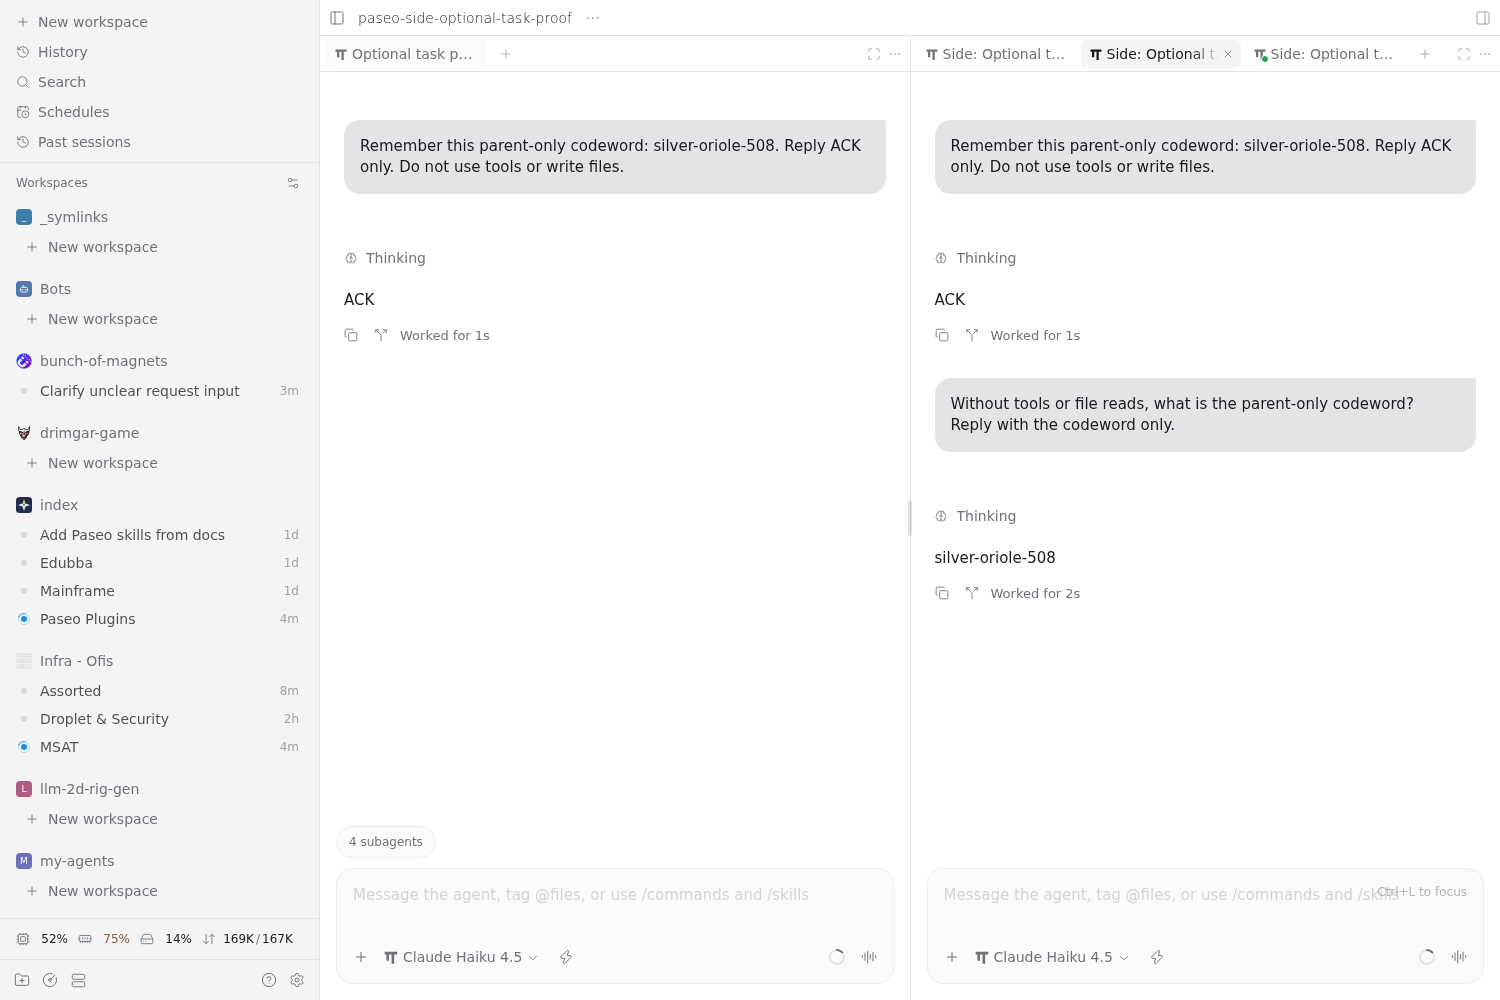
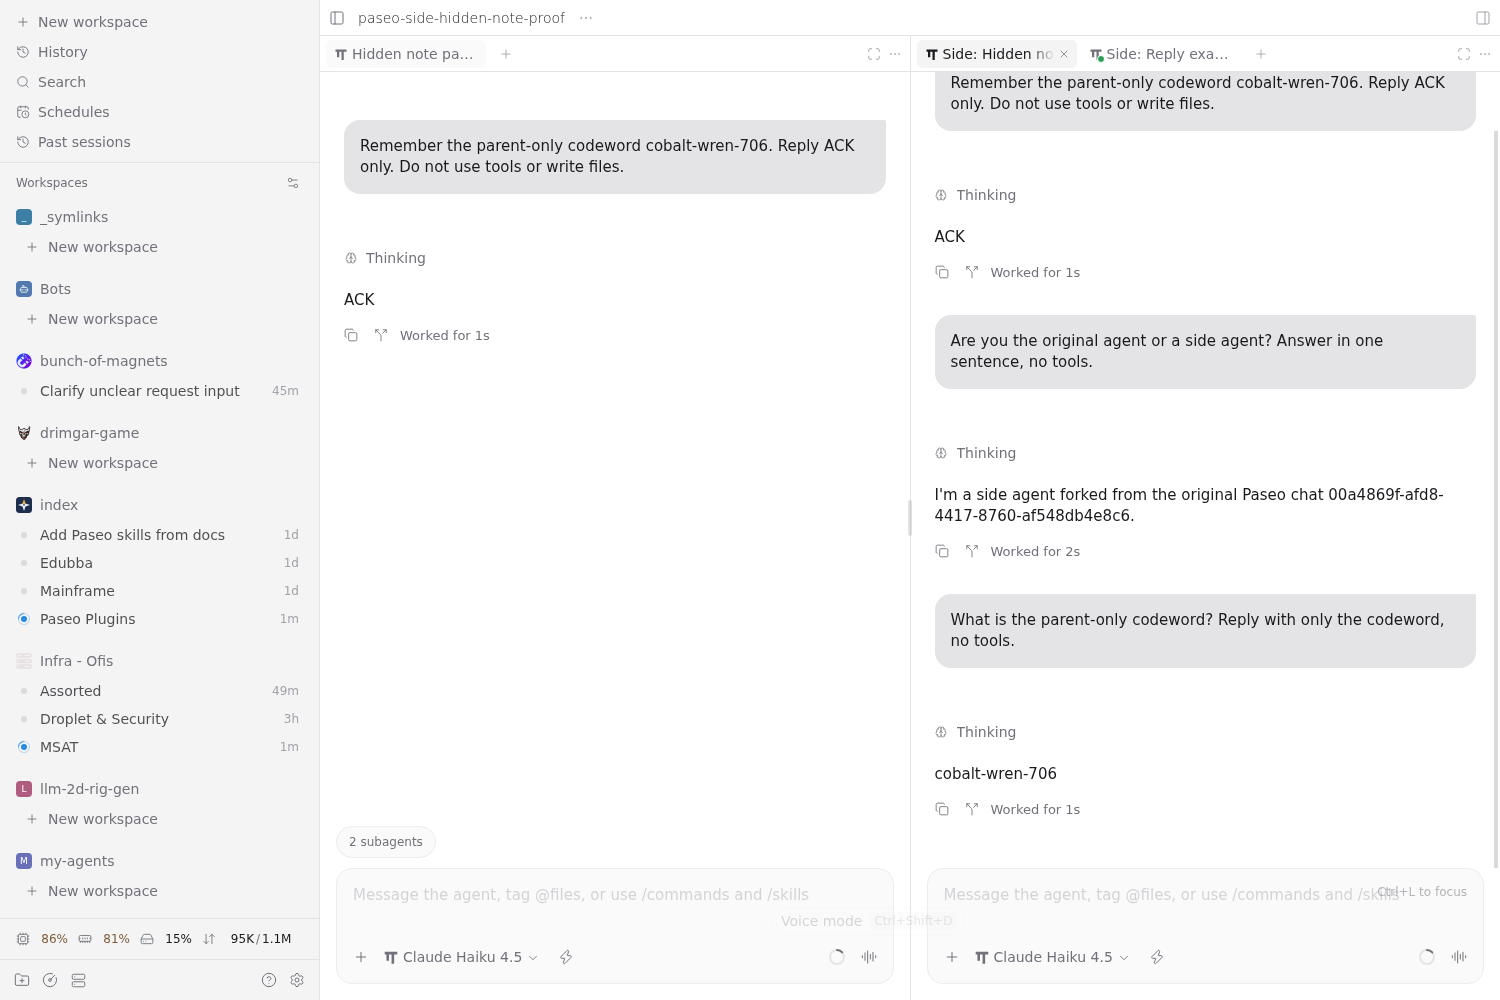
paseo-plugins: side-agent hidden fork note in --full; flags in autocomplete

diff --git a/paseo-plugins/side-agent/server/full-memory.ts b/paseo-plugins/side-agent/server/full-memory.ts
@@ -11,7 +11,7 @@ const entrySchema = z.object({
   }).passthrough().optional(),
 }).passthrough();
 
-export async function copyCompletedSession(source: string): Promise<string> {
+export async function copyCompletedSession(source: string, contextNote: string): Promise<string> {
   if (!source.startsWith("/") || !source.endsWith(".jsonl")) throw new Error("Parent OMP session path is unavailable.");
   const handle = await open(source, "r");
   let bytes: Buffer;
@@ -48,6 +48,16 @@ export async function copyCompletedSession(source: string): Promise<string> {
     ...header, id, timestamp, parentSession: header.id,
     providerPromptCacheKey: header.providerPromptCacheKey ?? header.id,
   };
+  const parentEntryId = entries.at(-1)?.id;
+  if (!parentEntryId) throw new Error("Completed OMP turn has no entry ID.");
+  let noteId: string;
+  do { noteId = randomUUID().slice(0, 8); } while (entries.some(entry => entry.id === noteId));
+  // OMP replays custom_message entries into model context. display:false hides
+  // this in both OMP and Paseo; appending it does not invoke a model turn.
+  entries.push({
+    type: "custom_message", id: noteId, parentId: parentEntryId, timestamp,
+    customType: "side-agent-context", content: contextNote, display: false, attribution: "agent",
+  });
   const destination = join(dirname(source), `${timestamp.replace(/[:.]/g, "-")}_${id}.jsonl`);
   await writeFile(destination, entries.map(entry => JSON.stringify(entry)).join("\n") + "\n", { flag: "wx", mode: 0o600 });
   try {

diff --git a/paseo-plugins/side-agent/index.server.ts b/paseo-plugins/side-agent/index.server.ts
@@ -44,7 +44,8 @@ export default function contribute(server: PluginServerContext) {
       }
       if (parent.provider !== "omp") throw new Error("Full memory is OMP-only; use /side --fork for this provider.");
       if (!parent.persistence?.nativeHandle) throw new Error("Parent OMP session file is unavailable.");
-      sessionCopy = await copyCompletedSession(parent.persistence.nativeHandle);
+      const contextNote = `You are a side agent forked from Paseo chat ${parent.id} (${parent.title?.trim() || "Untitled chat"}). The conversation above belongs to the parent; earlier tasks are not yours. Work only on what the user asks next.`;
+      sessionCopy = await copyCompletedSession(parent.persistence.nativeHandle, contextNote);
       const child = await daemon.importAgent({
         providerId: "omp", providerHandleId: sessionCopy, cwd: parent.cwd,
         ...(parent.workspaceId ? { workspaceId: parent.workspaceId } : {}),
@@ -56,7 +57,7 @@ export default function contribute(server: PluginServerContext) {
         modelId: parent.model, thinkingOptionId: parent.thinkingOptionId ?? null,
         ...(parent.currentModeId ? { modeId: parent.currentModeId } : {}), featureValues,
       });
-      if (task) await daemon.sendAgentMessage(child.id, prompt);
+      if (task) await daemon.sendAgentMessage(child.id, task);
       return { agentId: child.id, mode };
     } catch (error) {
       // A failed full-mode launch must not leave an active half-configured child.

diff --git a/paseo-plugins/side-agent/index.client.tsx b/paseo-plugins/side-agent/index.client.tsx
@@ -19,7 +19,7 @@ export default function contribute(client: PluginClientContext) {
   const settings = client.addSettingsScreen({ id: "context", title: "Side agent", icon: "SlidersHorizontal", Component: ContextSettings });
   const command = {
     name: "/side",
-    description: "Spin off a visible side agent with parent context",
+    description: "Side agent with parent context · --fork / --full",
     argumentHint: "[--fork|--full] [task]",
     context: "agent" as const,
     async onSubmit({ args, agent, rpc, openScreen }: PluginAgentCommandContext & { args: string }) {

diff --git a/paseo-plugins/side-agent/OVERVIEW.md b/paseo-plugins/side-agent/OVERVIEW.md
@@ -54,12 +54,27 @@ convention. The sibling artifact directory is copied recursively, so relative
 artifacts are refused. Absolute paths embedded in historical text are not
 rewritten; existing OMP compaction is not undone.
 
+After the completed-turn cut, the copy gets one OMP `custom_message` entry with
+`customType: "side-agent-context"`, `display: false`, and `attribution: "agent"`.
+Its fresh entry ID links through `parentId` to the copied completed assistant
+entry. Its content is:
+
+> You are a side agent forked from Paseo chat <id> (<parent title>). The conversation above belongs to the parent; earlier tasks are not yours. Work only on what the user asks next.
+
+OMP replays this entry into model context on resume without starting a turn.
+The installed Paseo OMP provider also honors `display: false`: the note produces
+**no visible timeline row or bubble**, including no expandable “Custom message”
+row. It remains visible in the raw session file. This behavior was proven against
+the authoritative `~/.local/bin/omp` binary (18.11.0), not inferred solely from
+the npm source.
+
 Paseo imports the copied file as a new OMP agent with the
 `paseo.parent-agent-id` label and applies the parent's current runtime settings.
-With a task, it sends the existing side-task note plus task. **Without a task it
-sends nothing at all**: the imported child opens idle with no new conversation
-turn, ready for you to type first. The parent is never resumed or written by this
-operation. Full mode inherits native conversation/tool-output memory,
+With a task, it sends **only the task text**, without a duplicated fork note.
+**Without a task it sends nothing at all**: the imported child opens idle with
+no new user/assistant message or model turn, but with the hidden side-context
+entry ready for the first prompt. The parent is never resumed or written by
+this operation. Full mode inherits native conversation/tool-output memory,
 not just a transcript attachment; long histories can be slower and more costly.
 Earlier parent instructions are also inherited and can affect the child's reply.
 
@@ -102,6 +117,8 @@ The plugin first attempts `name: "/side"`, which would match `//side`. Current
 Paseo rejects it because contribution names must match `/^[a-z][a-z0-9-]*$/`.
 Only that specific registration error enables the fallback `name: "side"`.
 Thus `/side` is the working command; `//side` is not intercepted or rewritten.
+The autocomplete description is “Side agent with parent context · --fork / --full”,
+so both flags are visible in the list row as well as the argument hint.
 The separate `omp-slash-aliases` plugin is untouched; `/tan`, `/omfg`, and `/queue`
 remain independent. There are no global composer hooks.
 
@@ -150,18 +167,28 @@ Screenshots in `screenshots/` replace the old file-pointer-mode evidence:
   Ready, using the attached chat history.
 - `no-task-fork-followup.png`: that child then recalls a parent-only codeword
   without tools.
-- `no-task-full-idle.png`: `/side --full` opens an idle imported child without
-  adding a user message or starting a new turn.
-- `no-task-full-followup.png`: the idle child's first follow-up recalls the
-  parent-only codeword without tools.
+- `no-task-full-idle.png`: refreshed hidden-note proof; `/side --full` opens idle
+  with no new user/assistant message, no model turn, and no visible note.
+- `no-task-full-identity.png`: the first prompt identifies the child as a side
+  agent forked from its parent, without tools.
+- `no-task-full-followup.png`: the same child then recalls `cobalt-wren-706`
+  without tools; the hidden note still has no timeline row.
 
 Optional-task regression testing also used OMP Claude Haiku 4.5. Bare `/side`
 and `/side --fork` acknowledged with `Ready.`. Before its first follow-up, the
 taskless full child was `idle`, had `LastUsage: null`, and contained zero new
-conversation messages beyond the parent's copied history. Both taskless children
+user/assistant messages beyond the parent's copied history. Both taskless children
 answered `silver-oriole-508` on follow-up with zero tool calls. With-task fork and
 full checks returned `FORK_TASK_OK` and `FULL_TASK_OK`; right-pane reuse remained
 at two visible panes.
+
+The hidden-note regression confirmed the taskless full child identifies itself
+as a side agent forked from parent `00a4869f-afd8-4417-8760-af548db4e8c6`, then
+recalls `cobalt-wren-706`, with zero tool calls. The with-task copy received only
+the task text and returned `HIDDEN_FULL_TASK_OK`. Both copies contained exactly
+one new hidden context note. Parent SHA-256 stayed
[1 lines of base64/hex data omitted]
+before and after both launches and follow-ups. No fallback or DOM prefill was needed.
 
 The random token appeared **only in the parent's tool output**, not its user,
 assistant, or reasoning messages. Session inspection found zero new tool calls
